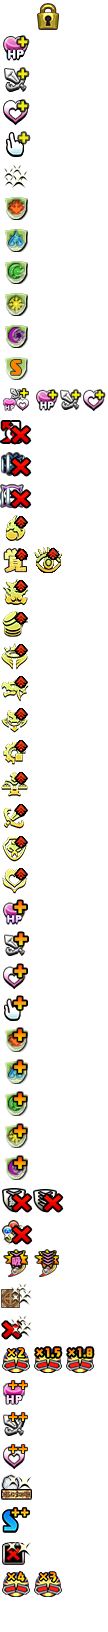
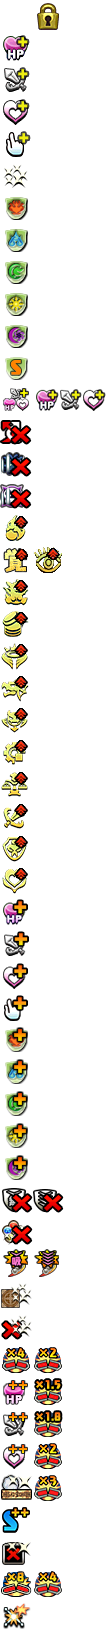
进一步补充v22.6的修改

diff --git a/style-monsterimages.css b/style-monsterimages.css
@@ -1401,12 +1401,13 @@
 	--icon-x-index: 1;
 }
 
-/*v21.7 日服x3变x4，美韩服不变，就这样写。*/
-/*body:not([data-game-source="ja"]) .latent-icon:where(
+/*v22.6 日服x2变x4，x4变x8，美韩服不变，就这样写。*/
+body:not([data-game-source="ja"]) .latent-icon:where(
+	[data-latent-icon='42'],
 	[data-latent-icon='49'],
 )::before{
 	--icon-x-index: 1;
-}*/
+}
 
 /* 编辑界面特殊的 三维潜觉 */
 .latent-ul-div .latent-ul .latent-icon[data-latent-icon='12']::before
@@ -1490,10 +1491,23 @@
 	content: "";
 	margin-left: 3px;
 	--icon-x-index: 1;
-	--icon-y-index: 42;
+	--icon-y-index: 45;
+}
+
+/*v22.6 日服 额外效果x1.5、x1.8变x2，美韩服不变，就这样写。*/
+/* 额外有 x1.5 的 6格觉醒 */
+body:not([data-game-source="ja"]) .level-super-break .latent-icon:where(
+	[data-latent-icon='14'], /*防费*/
+	[data-latent-icon='15'], /*防毒*/
+	[data-latent-icon='38'], /*破属吸*/
+	[data-latent-icon='39'], /*破伤吸*/
+	[data-latent-icon='47'], /*S++*/
+)::after
+{
+	--icon-y-index: 43;
 }
 /* 额外有 x1.8 的 6格觉醒 */
-.level-super-break .latent-icon:where(
+body:not([data-game-source="ja"]) .level-super-break .latent-icon:where(
 	[data-latent-icon='13'], /*防换队长*/
 	[data-latent-icon='37'], /*破无效*/
 	[data-latent-icon='40'], /*解轮盘赌*/
@@ -1502,7 +1516,7 @@
 	[data-latent-icon='48'], /*解封武器*/
 )::after
 {
-	--icon-x-index: 2;
+	--icon-y-index: 44;
 }
 
 /* 徽章背景 */

diff --git a/script-universal_function.js b/script-universal_function.js
@@ -932,14 +932,16 @@ function calculateAbility(member, assist = null, solo = true, teamsCount = 1) {
 	const dgeRate = [dge.rate.hp, dge.rate.atk, dge.rate.rcv];
 	const isDge = isDungeonEnhance(dge, member, assist);
 
+	//v22.6 变化
+	const isJP = currentDataSource.code === "jp";
 	//地下城阴阳加护强化
 	if (dge.benefit) { //当存在加护
 		const benefitAwokens = [128 , 129]; //0b1是阳，0b10是阴，可以两者都强化
 		Bin.unflags(dge.benefit).forEach(idx=>{
 			const akId = benefitAwokens[idx]; //得到加护觉醒编号
-			latterAwokenScale[0].push({ index: akId, scale: 1.2 }); //HP
+			latterAwokenScale[0].push({ index: akId, scale: isJP ? 2 : 1.2 }); //HP
 			latterAwokenScale[1].push({ index: akId, scale: 5 }); //ATK
-			latterAwokenScale[2].push({ index: akId, scale: 1.2 }); //RCV
+			latterAwokenScale[2].push({ index: akId, scale: isJP ? 2 : 1.2 }); //RCV
 		});
 	}
 
